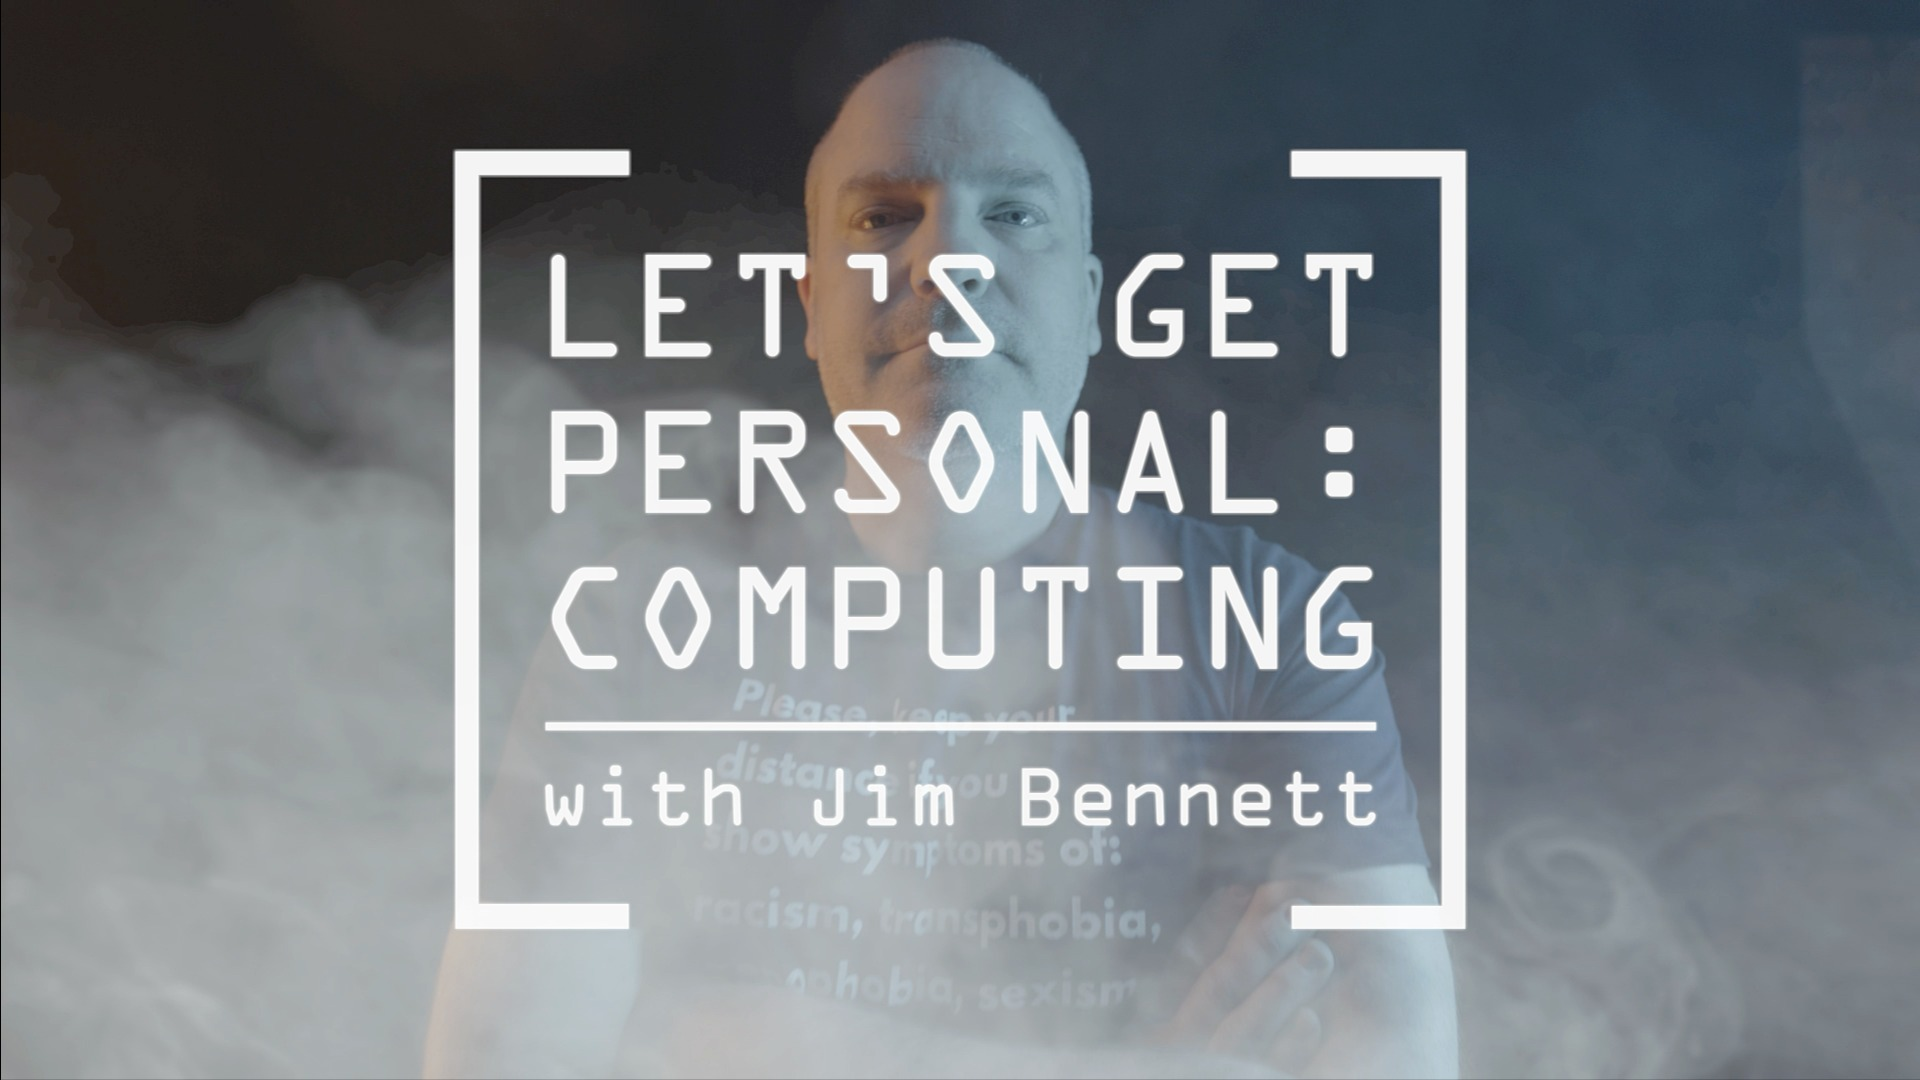
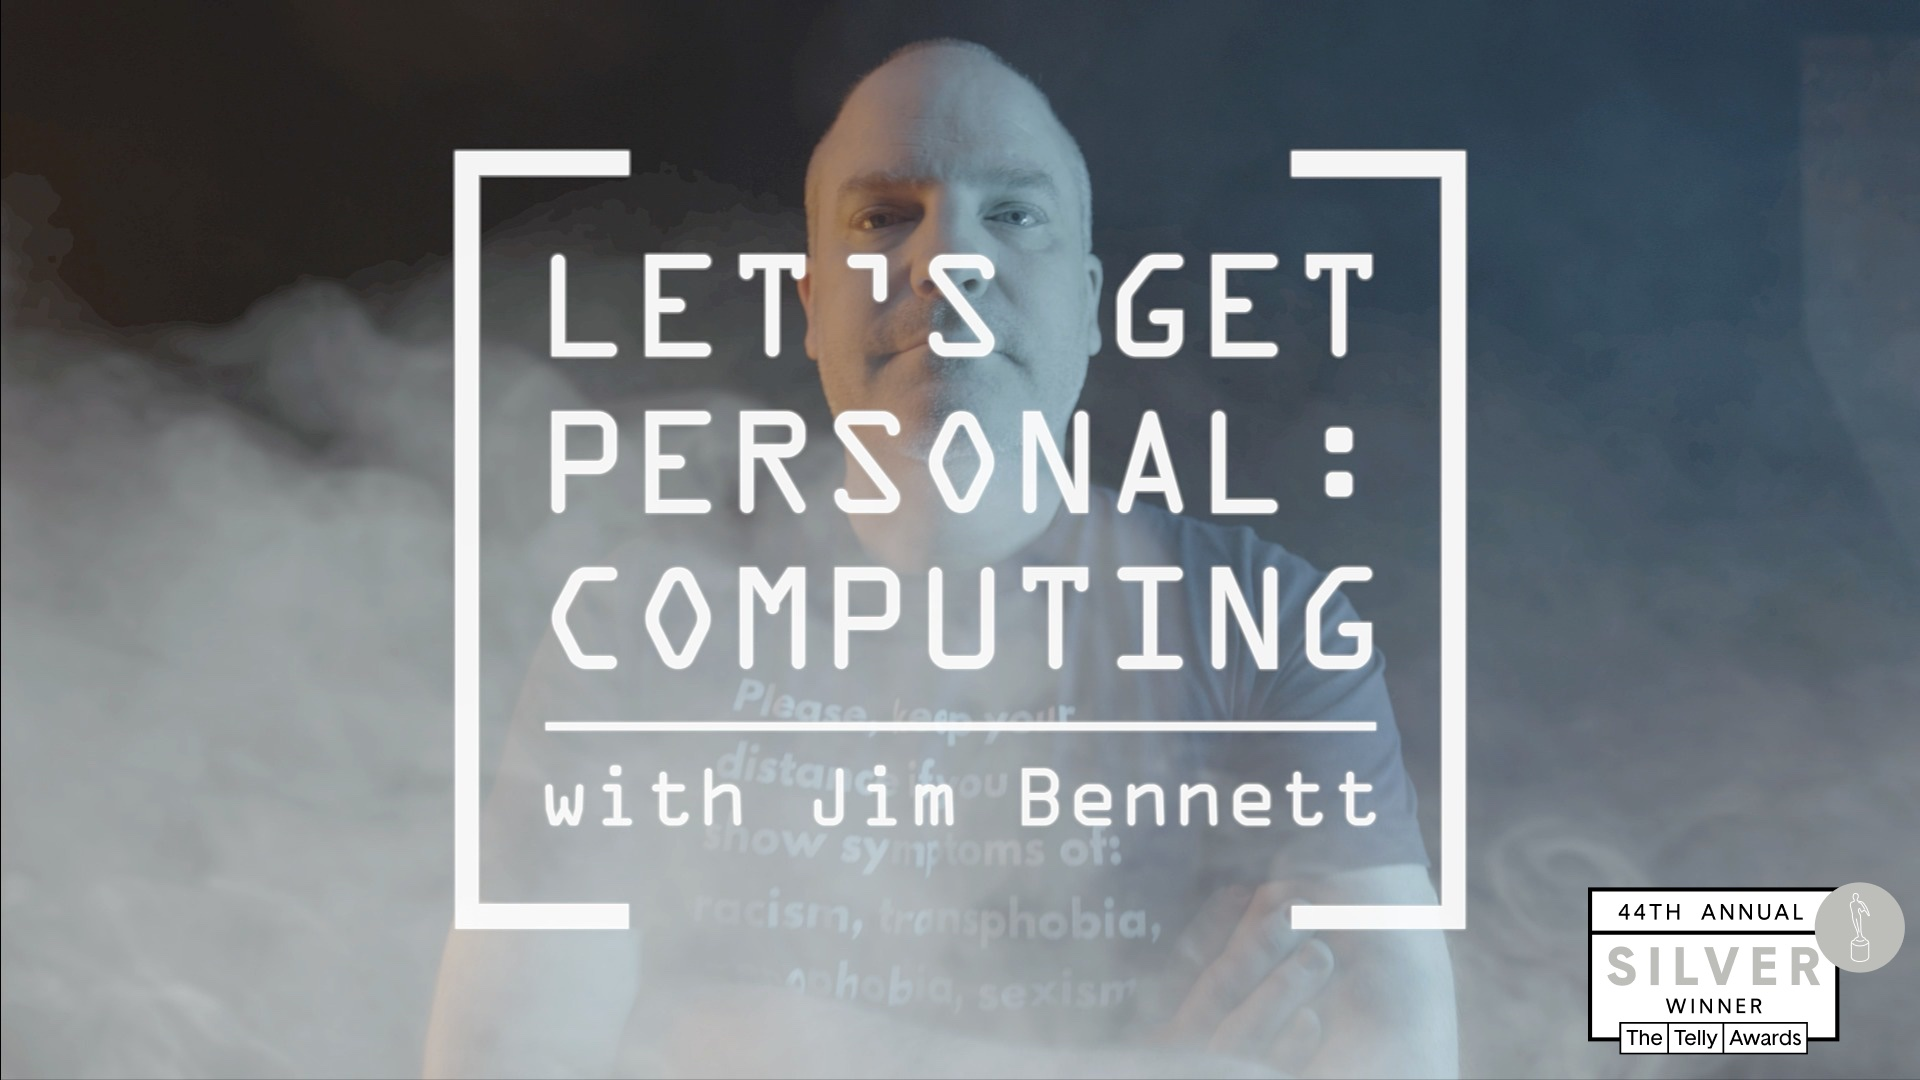
Adding blog post on telly award

Changed region(s): [[0.8125, 0.7944, 1.0, 0.9778]]

diff --git a/blog/layouts/partials/sections/hero/index.html b/blog/layouts/partials/sections/hero/index.html
@@ -17,6 +17,9 @@
                 </p>
                 <div class="col-auto h-100">
                     <p>
+                        <img src="/images/png/Telly_44th_Winners_Badges_silver_winner.png"/>
+                    </p>
+                    <p>
                         <img src="https://raw.githubusercontent.com/jimbobbennett/ColoredBadges/main/svg/pronouns/hehim.svg"
                             alt="Jim uses he/him pronouns">
                     </p>

diff --git a/blog/content/blogs/telly-award/index.md b/blog/content/blogs/telly-award/index.md
@@ -1,0 +1,24 @@
+---
+author: "Jim Bennett"
+date: 2023-06-01
+description: "Let's get personal: computing has won a Telly award"
+draft: false
+tags: ["award", "tellyaward", "clippy", "chatgpt", "winner"]
+title: "Let's get personal: computing has won a Telly award"
+
+images:
+  - /blogs/telly-award/banner.png
+featured_image: banner.png
+image: banner.png
+---
+
+This year is the 44th annual [Telly Awards](https://www.tellyawards.com). The Telly Awards honor excellence in video and television across all screens.
+
+The Telly Awards was founded in 1979 to honor excellence in local, regional and cable television commercials with non-broadcast video and television programming added soon after. With the recent evolution and rise of digital video (web series, VR, 360 and beyond), the Telly Awards today also reflects and celebrates this exciting new era of the moving image on and offline.
+
+The Telly Awards annually showcases the best work created within television and across video, for all screens. Receiving over 12,000 entries from all 50 states and 5 continents, Telly Award winners represent work from some of the most respected advertising agencies, television stations, production companies and publishers from around the world. The Telly Awards recognizes work that has been created on the behalf of a client, for a specific brand and/or company (including your own) or self-directed as a creative endeavor.
+
+This year we entered the **Build a 3D Printed Clippy Powered by ChatGPT from OpenAI, Azure Cognitive Services** episode of Let's get personal: computing, and we won a [Silver award in the online talk show/interview category](https://www.tellyawards.com/winners/2023/online/general-talk-show-interview)!
+
+{{< youtube 6OYGeOwd6RY >}}
+
